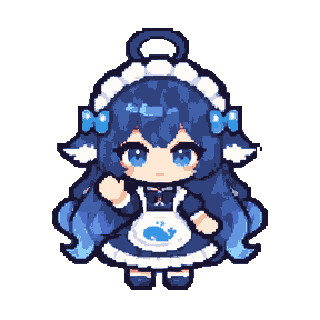
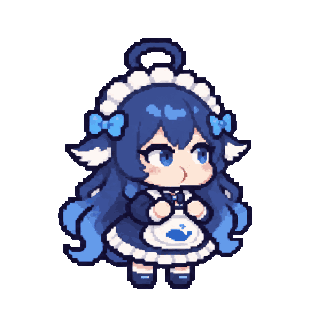
feat(playground): animate bubble blowing, burps and whale-form pointer chases

Changed region(s): [[0.1562, 0.0625, 0.8438, 0.9062]]

diff --git a/packages/rsille-playground/src/deepseek_pet/pet/behavior.rs b/packages/rsille-playground/src/deepseek_pet/pet/behavior.rs
@@ -9,6 +9,9 @@ use std::collections::BTreeSet;
 #[derive(Clone, Copy, Default, PartialEq, Eq, Debug)]
 pub(super) enum Mood {
     Swim,
+    Morph,
+    Chase,
+    Unmorph,
     Watch,
     Grab,
     Hop,
@@ -19,6 +22,7 @@ pub(super) enum Mood {
     Puzzled,
     Snack,
     EatFish,
+    Burp,
     Nap,
     #[default]
     Idle,
@@ -147,11 +151,29 @@ impl Life {
                 if self.x != x {
                     self.leftward = x < self.x;
                 }
-                self.x = approach(self.x, x);
-                self.altitude = approach(self.altitude, altitude);
+                let chasing = treat.is_none() && meal.is_none();
+                if chasing {
+                    match self.mood {
+                        Mood::Chase => {}
+                        Mood::Morph if self.age < animation::MORPH.duration => continue,
+                        Mood::Morph => {
+                            self.mood = Mood::Chase;
+                            self.age = 0;
+                        }
+                        _ => {
+                            self.altitude = self.altitude.saturating_add(self.lift()).min(rise);
+                            self.mood = Mood::Morph;
+                            self.age = 0;
+                            continue;
+                        }
+                    }
+                }
+                // Terminal cells are usually taller than they are wide.
+                self.x = approach(self.x, x, if chasing { 2 } else { 1 });
+                self.altitude = approach(self.altitude, altitude, 1);
                 if (self.x, self.altitude) != (x, altitude) {
-                    self.mood = Mood::Swim;
-                    self.age %= animation::SWIM.duration;
+                    self.mood = if chasing { Mood::Chase } else { Mood::Swim };
+                    self.age %= self.clip().duration;
                     continue;
                 }
                 if let Some(pointer) = &mut self.pointer {
@@ -172,6 +194,10 @@ impl Life {
                     self.mood = Mood::Grab;
                 }
                 self.age = 0;
+                continue;
+            }
+            if matches!(self.mood, Mood::Chase | Mood::Morph) {
+                self.play(Mood::Unmorph);
                 continue;
             }
             if !fixed && !reacting && !matches!(self.mood, Mood::Snack | Mood::Idle) {
@@ -205,6 +231,8 @@ impl Life {
                     if let Some(foraging) = &mut self.foraging {
                         foraging.hunger = 0;
                     }
+                    self.play(Mood::Burp);
+                    continue;
                 }
                 self.choice = self.choice.wrapping_mul(1664525).wrapping_add(1013904223);
                 self.mood = if self.fatigue >= 160 {
@@ -269,6 +297,9 @@ impl Life {
     fn clip(&self) -> &'static Clip {
         match self.mood {
             Mood::Swim | Mood::Swoop => &animation::SWIM,
+            Mood::Morph => &animation::MORPH,
+            Mood::Chase => &animation::CHASE,
+            Mood::Unmorph => &animation::UNMORPH,
             Mood::Bubbles => &animation::BUBBLES,
             Mood::Wave => &animation::WAVE,
             Mood::Puzzled if self.leftward => &animation::PUZZLED_LEFT,
@@ -278,6 +309,8 @@ impl Life {
             Mood::Watch => &animation::WATCH,
             Mood::Grab => &animation::GRAB,
             Mood::Snack | Mood::EatFish => &animation::SNACK,
+            Mood::Burp if self.leftward => &animation::BURP_LEFT,
+            Mood::Burp => &animation::BURP,
             Mood::Nap => &animation::NAP,
             Mood::Idle if self.choice & 1 != 0 => &animation::IDLE_FIN,
             Mood::Idle => &animation::IDLE,
@@ -316,13 +349,11 @@ impl Life {
     }
 }
 
-fn approach(value: u16, goal: u16) -> u16 {
+fn approach(value: u16, goal: u16, step: u16) -> u16 {
     if value < goal {
-        value + 1
-    } else if value > goal {
-        value - 1
+        value.saturating_add(step).min(goal)
     } else {
-        value
+        value.saturating_sub(step).max(goal)
     }
 }
 
@@ -366,16 +397,31 @@ mod tests {
         for tick in 0..2000 {
             life.update(tick, 60, 10, 1, 1);
             if life.mood == Mood::Bubbles {
-                let has_bubble = |frame, x: usize, y: usize| {
-                    let px: usize = (2 * x + 1) * SIDE / (2 * 96);
-                    let py: usize = (2 * y + 1) * SIDE / (2 * 48);
-                    let i = (py * SIDE + px) * 4;
-                    animation::pixels(frame)[i..i + 4] == [146, 255, 255, 255]
+                // Follow the turquoise rim from the wand into the air.
+                let rim = |frame| {
+                    let mut bounds = (SIDE, SIDE, 0, 0);
+                    for (i, pixel) in animation::pixels(frame).chunks_exact(4).enumerate() {
+                        if pixel == [132, 239, 250, 255] {
+                            let (x, y) = (i % SIDE, i / SIDE);
+                            bounds = (
+                                bounds.0.min(x),
+                                bounds.1.min(y),
+                                bounds.2.max(x),
+                                bounds.3.max(y),
+                            );
+                        }
+                    }
+                    bounds
                 };
-                assert!(has_bubble(life.frame(), 82, 25));
-                life.update(tick + 10, 60, 10, 1, 1);
-                assert!(has_bubble(life.frame(), 87, 10));
-                life.update(tick + 20, 60, 10, 1, 1);
+                life.update(tick + 6, 60, 10, 1, 1);
+                let small = rim(life.frame());
+                life.update(tick + 11, 60, 10, 1, 1);
+                let inflated = rim(life.frame());
+                assert!(small.0.abs_diff(inflated.0) <= 4 && small.2 + 20 < inflated.2);
+                life.update(tick + 18, 60, 10, 1, 1);
+                let floating = rim(life.frame());
+                assert!(floating.0 > inflated.0 && floating.3 < inflated.1);
+                life.update(tick + u64::from(animation::BUBBLES.duration), 60, 10, 1, 1);
                 assert_ne!(life.mood, Mood::Bubbles);
                 return;
             }

diff --git a/packages/rsille-playground/src/deepseek_pet/pet.rs b/packages/rsille-playground/src/deepseek_pet/pet.rs
@@ -911,6 +911,16 @@ mod tests {
             let mut out = Vec::new();
             pet.draw(1, 80, 24, 10, 20, &mut out).unwrap();
             assert_eq!(pet.life.mood, Mood::Snack);
+            pet.draw(
+                1 + u64::from(animation::SNACK.duration),
+                80,
+                24,
+                10,
+                20,
+                &mut Vec::new(),
+            )
+            .unwrap();
+            assert_eq!(pet.life.mood, Mood::Burp);
             let mut grid = vt100::Parser::new(24.try_into().unwrap(), 80.try_into().unwrap(), 0);
             grid.process(b"\x1b[20;69Habc");
             grid.process(&out);
@@ -1271,7 +1281,10 @@ mod tests {
         let bitten_fish = gold_pixels(&pet);
         draw(&mut pet, caught + 16);
         assert!(whole_fish > bitten_fish && bitten_fish > gold_pixels(&pet));
-        draw(&mut pet, caught + u64::from(animation::SNACK.duration));
+        let burp = caught + u64::from(animation::SNACK.duration);
+        draw(&mut pet, burp);
+        assert_eq!(pet.life.mood, Mood::Burp);
+        draw(&mut pet, burp + u64::from(animation::BURP.duration));
         assert_eq!(pet.life.mood, Mood::Idle);
         assert!(pet.life.treat.is_none() && pet.fish_icon.is_none());
         let mut out = Vec::new();
@@ -1527,6 +1540,10 @@ mod tests {
         }
         assert!(pet.life.pointer.as_ref().unwrap().target.is_none());
         assert!(pet.life.cooldown > 0);
+        assert_eq!(pet.life.mood, Mood::Unmorph);
+        pet.life
+            .update(33 + u64::from(animation::UNMORPH.duration), 200, 0, 1, 1);
+        assert_eq!(pet.life.mood, Mood::Idle);
     }
 
     #[test]
@@ -1535,11 +1552,33 @@ mod tests {
         pet.life.pointer.as_mut().unwrap().curiosity = 0;
         pet.mouse_event(MouseKind::Motion, 12, 2);
         pet.life.update(0, 20, 10, 1, 1);
-        pet.life.update(9, 20, 10, 1, 1);
-        assert_eq!((pet.life.x, pet.life.altitude), (11, 9));
+        let transformed = 1 + u64::from(animation::MORPH.duration);
+        for tick in 1..transformed {
+            pet.life.update(tick, 20, 10, 1, 1);
+            assert_eq!(
+                (pet.life.mood, pet.life.x, pet.life.altitude),
+                (Mood::Morph, 20, 0)
+            );
+        }
+        pet.life.update(transformed, 20, 10, 1, 1);
+        assert_eq!(
+            (pet.life.mood, pet.life.x, pet.life.altitude),
+            (Mood::Chase, 18, 1)
+        );
+        pet.mouse_event(MouseKind::Motion, 20, 2);
+        pet.life.update(transformed + 1, 20, 10, 1, 1);
+        assert_eq!(
+            (pet.life.mood, pet.life.leftward, pet.life.x),
+            (Mood::Chase, false, 19)
+        );
+        pet.life.update(transformed + 8, 20, 10, 1, 1);
+        assert_eq!(
+            (pet.life.mood, pet.life.x, pet.life.altitude),
+            (Mood::Grab, 19, 9)
+        );
         pet.life.foraging.as_mut().unwrap().hunger = 100;
         pet.notice_food(18, 8);
-        assert_eq!(pet.life.update(12, 20, 10, 1, 1), None);
+        assert_eq!(pet.life.update(transformed + 10, 20, 10, 1, 1), None);
         pet.forget_food();
         assert_eq!(pet.life.update(45, 20, 10, 1, 1), None);
         pet.notice_food(3, 4);

diff --git a/packages/rsille-playground/deepseek-pet/README.md b/packages/rsille-playground/deepseek-pet/README.md
@@ -96,11 +96,11 @@ cargo run -p rsille-playground -- pet --commands ./my-commands.yaml
 
 小鲸鱼启动时会安静地待在终端右下角。没人打扰时，每次待机持续约 7～15 秒，大部分时间静止，偶尔眨眼或轻轻动一下鳍。歇够了才会慢游、吐泡泡或沿弧线俯冲，活动过后再停下来。
 
-默认可以用鼠标逗小鲸鱼。移动指针时它偶尔会追上来，先蹲低，再扑上来，双手在指针尖合拢，抓住约一秒才松开。左键点它的身体，它会挥挥鳍，头顶浮起一颗粉色爱心。在支持的终端中，按住 Shift 拖动即可选字。
+默认可以用鼠标逗小鲸鱼。移动指针时，它偶尔会在原地蜷起身，半秒后变成圆滚滚的蓝鲸，摆尾追着指针转向。追上时它变回鲸鱼娘，扑上去抱住指针约一秒；追丢了也会变回来。左键点它的身体，它会挥挥鳍，头顶浮起一颗粉色爱心。在支持的终端中，按住 Shift 拖动即可选字。
 
-第一次摸它时会短暂提示「右键点我，一起玩」。空手时右键点鲸鱼的身体，会在它身边打开互动菜单。小鲸鱼会停下来等你选。点「吹泡泡」或「让它打个盹」会立即做对应动作；点「喂小鱼干」，鱼干会跟着指针走，在想投喂的位置点一下即可放下，也可以按住拖动再松开。点菜单外只会收起菜单。有鱼干时，在任意位置点右键都优先收回鱼干。
+第一次摸它时会短暂提示「右键点我，一起玩」。空手时右键点鲸鱼的身体，会在它身边打开互动菜单。小鲸鱼会停下来等你选。点「吹泡泡」，它会鼓起脸颊，举起泡泡棒，吹出一个慢慢变大、脱圈上浮的泡泡。点「让它打个盹」就会在原地睡下。点「喂小鱼干」，鱼干会跟着指针走，在想投喂的位置点一下即可放下，也可以按住拖动再松开。点菜单外只会收起菜单。有鱼干时，在任意位置点右键都优先收回鱼干。
 
-拿着鱼干移动时，小鲸鱼会追过来。一追上，它就把鱼干举到嘴边吃掉，再打个嗝，这次投喂也就结束了。只开 `mouse` 时，可以把鱼干拖到鲸鱼当前的位置投喂。手动投喂只需要 `mouse`，吃下的鱼干也会让开启了 `forage` 的鲸鱼暂时吃饱。
+拿着鱼干移动时，小鲸鱼会追过来。一追上，它就把鱼干举到嘴边吃掉。吞下后先憋一口气，接着身子猛地一弹，嘴边冒出一个「嗝」字。只开 `mouse` 时，可以把鱼干拖到鲸鱼当前的位置投喂。手动投喂只需要 `mouse`，吃下的鱼干也会让开启了 `forage` 的鲸鱼暂时吃饱。
 
 想让鲸鱼保留全部非鼠标行为，可以运行 `rsille pet --features roam,speech,command-reactions,typing,bell,forage`。这时可以直接拖选 shell 里的文字。前台程序自行启用鼠标时，鼠标事件会原样传给它。
 
